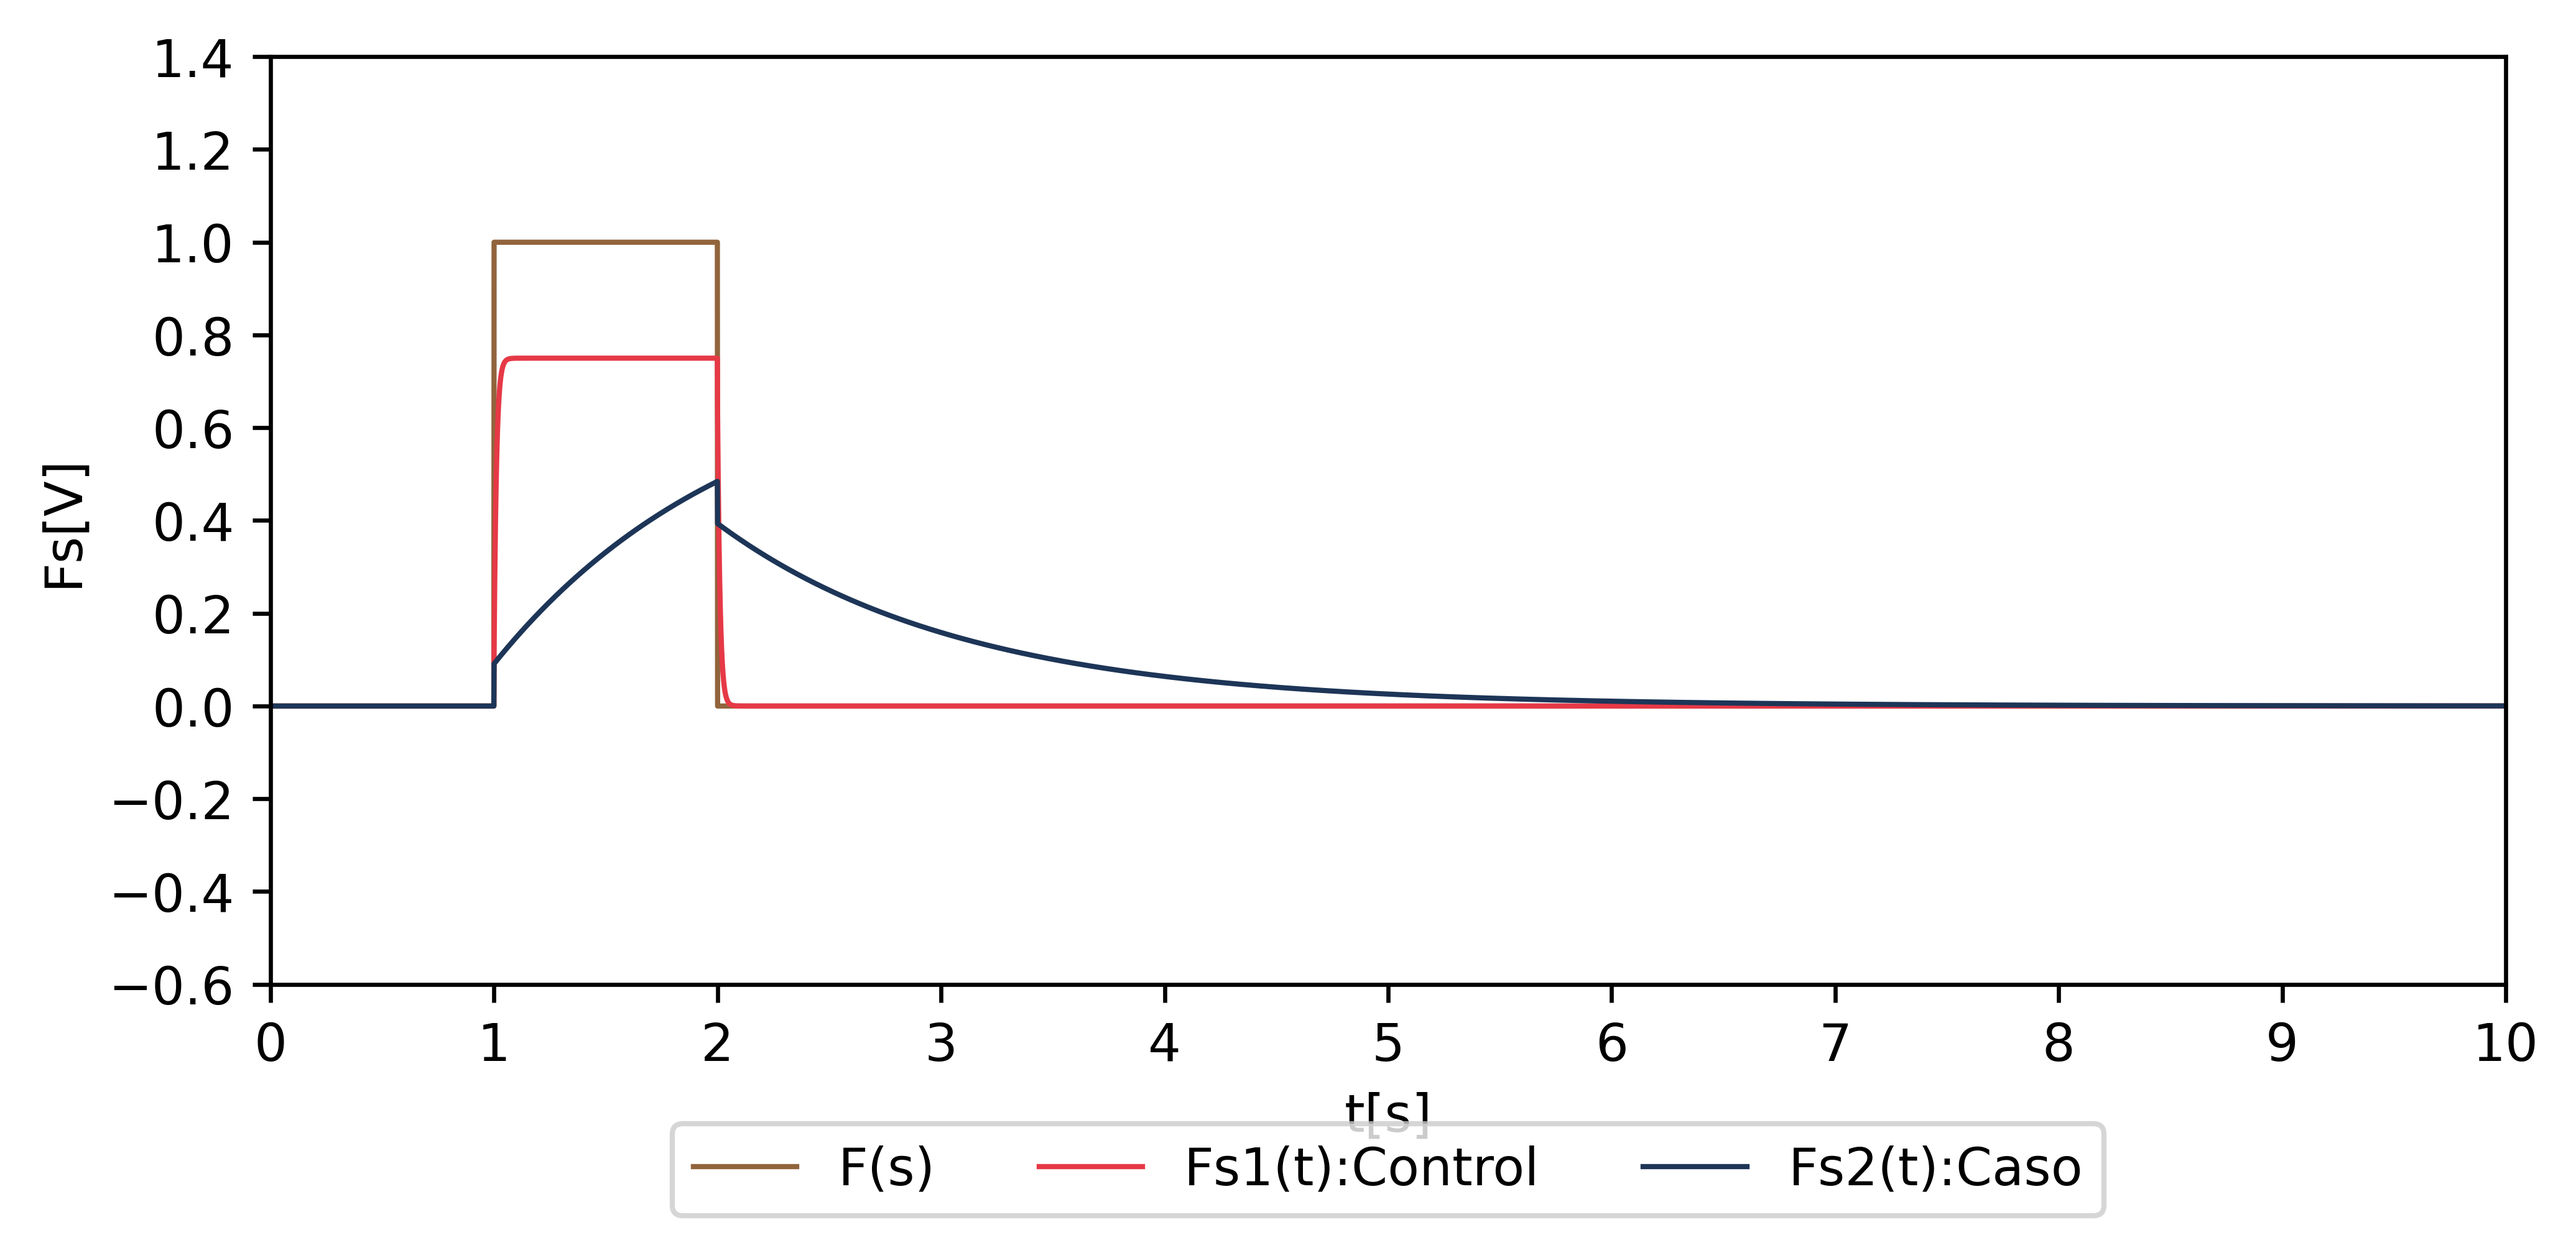
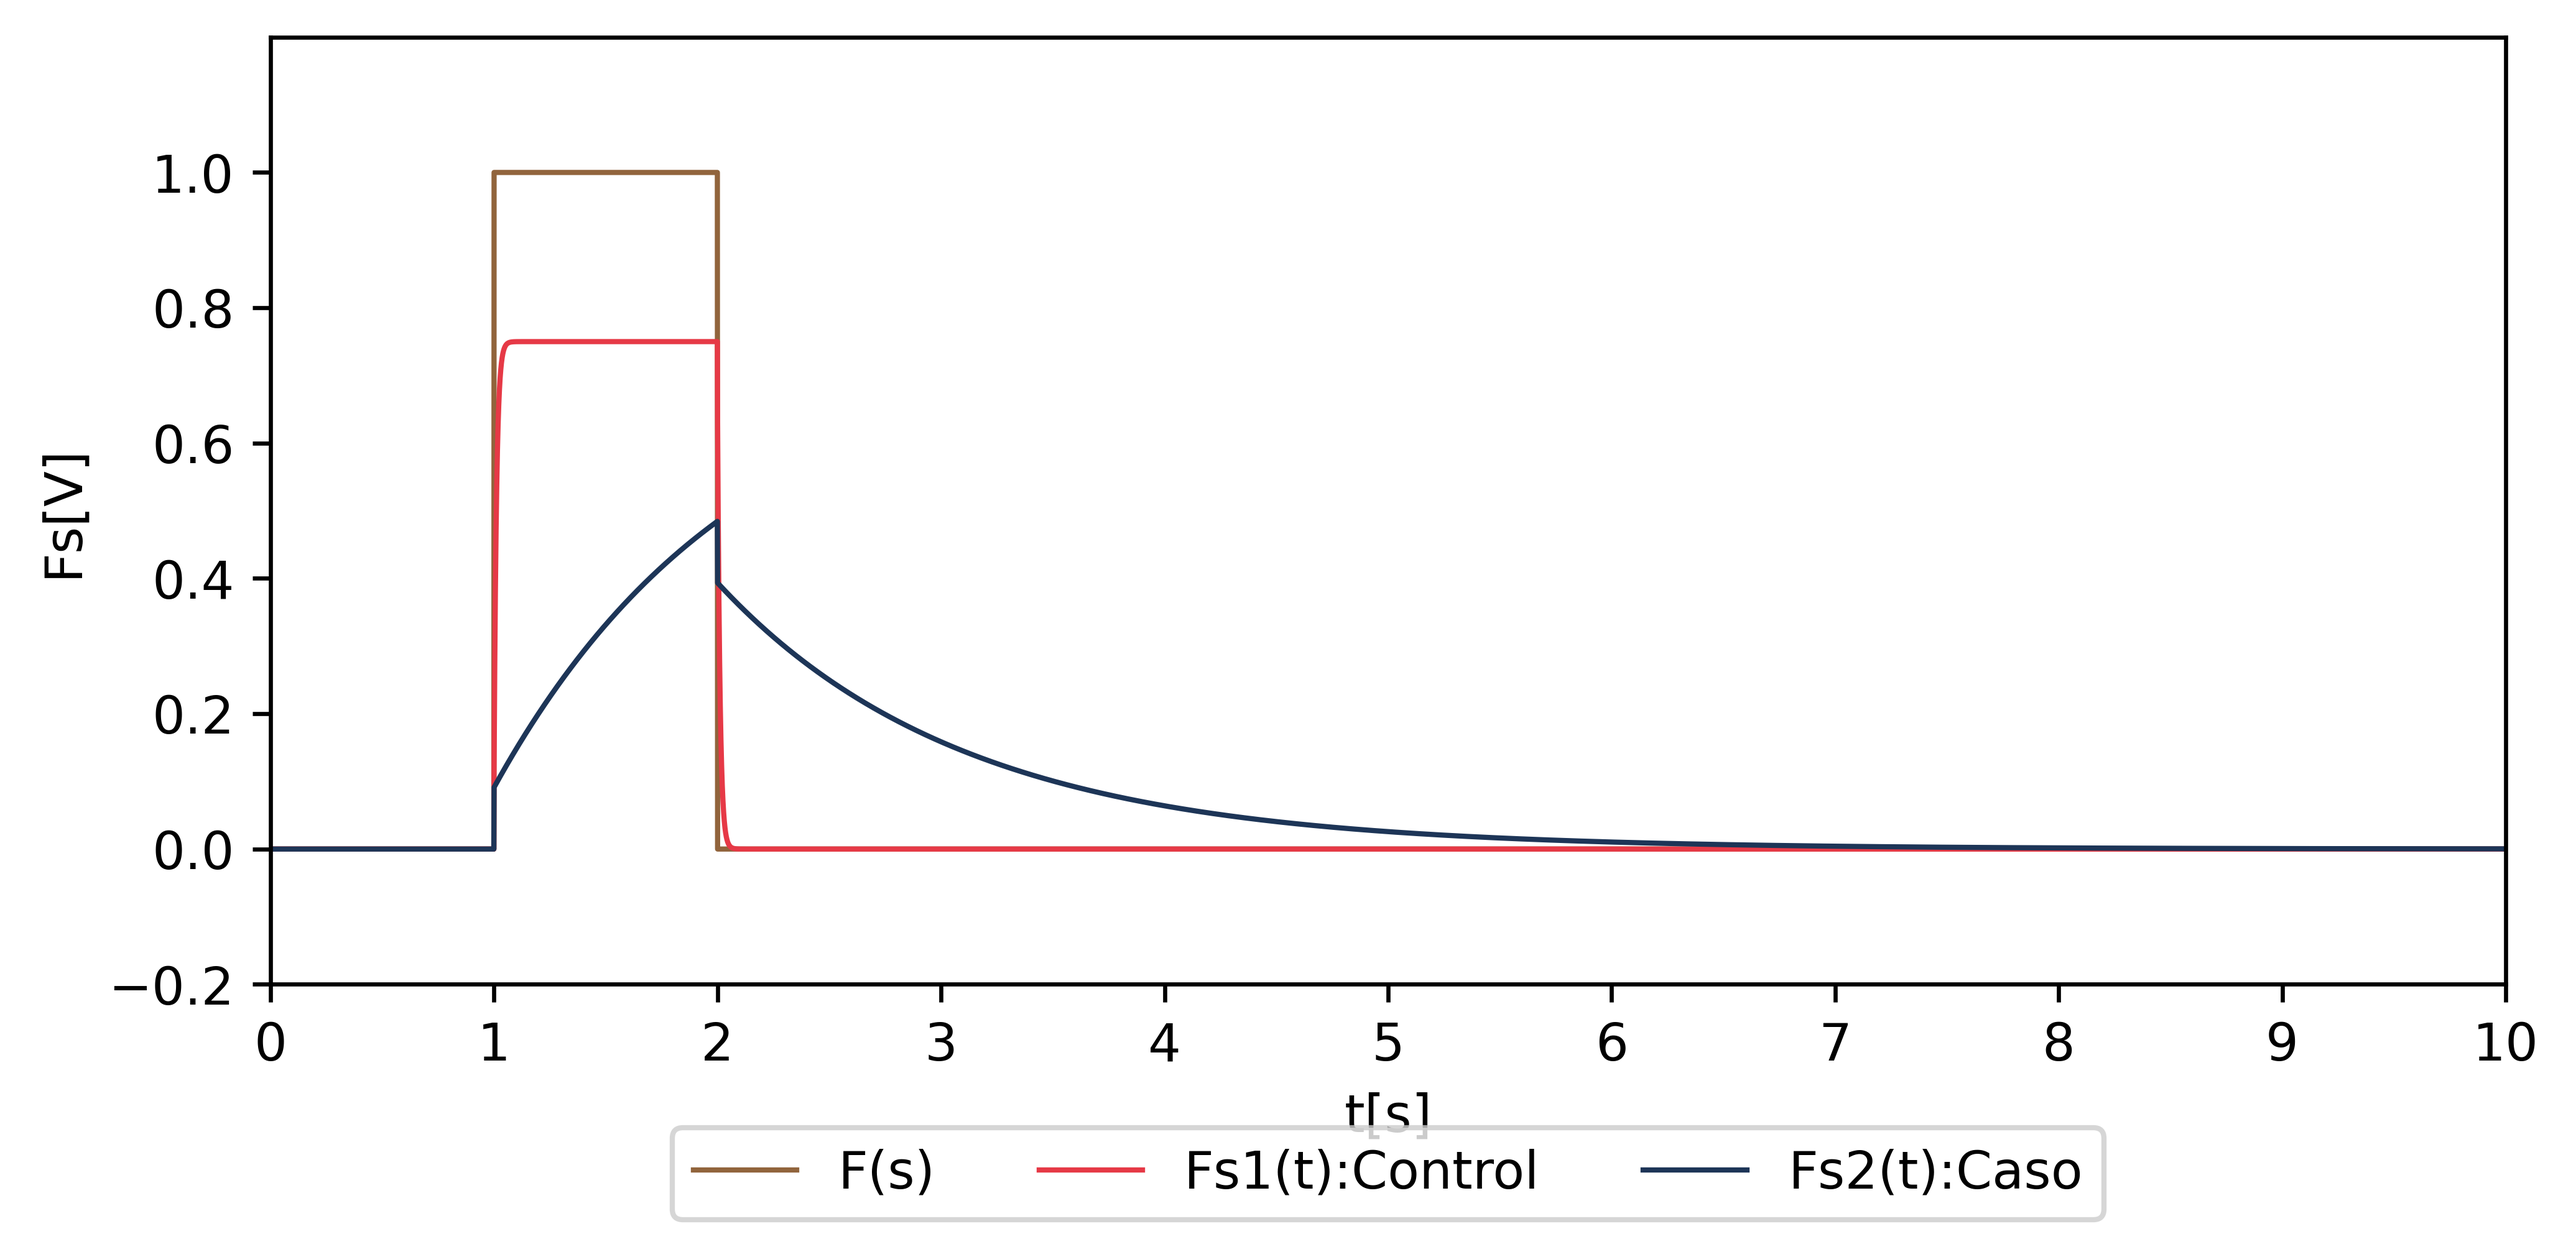
Add files via upload

diff --git a/Chizek22212382.py b/Chizek22212382.py
@@ -52,7 +52,7 @@ plt.plot(t,Fs2,'-',linewidth = 1, color =[0.114,0.208,0.341],label='Fs2(t):Caso'
 
 plt.grid(False) #Para poner una cuadricula en la grafica
 plt.xlim(0,10); plt.xticks(np.arange(0,11,1))
-plt.ylim(-0.6,1.4); plt.yticks(np.arange(-0.6,1.6,0.2))
+plt.ylim(-0.2,1.2); plt.yticks(np.arange(-0.2,1.2,0.2))
 plt.xlabel('t[s]')
 plt.ylabel('Fs[V]')
 plt.legend(bbox_to_anchor = (0.5,-0.2),loc = 'center', ncol = 3)
@@ -83,7 +83,7 @@ plt.plot(t,Fs2,'-',linewidth = 1, color =[0.114,0.208,0.341],label='Fs2(t):Caso'
 plt.plot(t,Fs3,':',linewidth = 1.5, color =[0.271,0.482,0.616],label='Fs3(t):Tratamiento')
 plt.grid(False) #Para poner una cuadricula en la grafica
 plt.xlim(0,10); plt.xticks(np.arange(0,11,1))
-plt.ylim(-0.6,1.4); plt.yticks(np.arange(-0.6,1.6,0.2))
+plt.ylim(-0.2,1.2); plt.yticks(np.arange(-0.2,1.2,0.2))
 plt.xlabel('Pp(t)[V]')
 plt.ylabel('t[s]')
 plt.legend(bbox_to_anchor = (0.5,-0.2),loc = 'center', ncol = 3)
